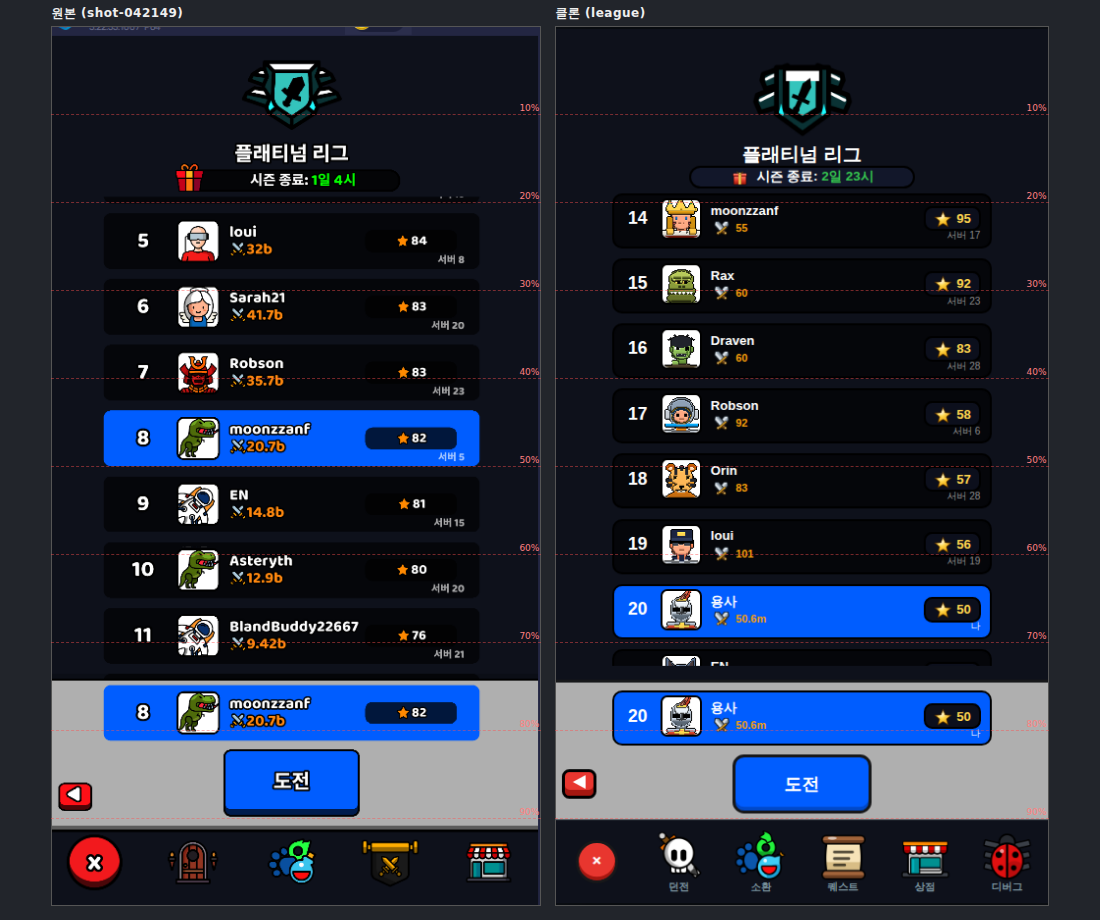
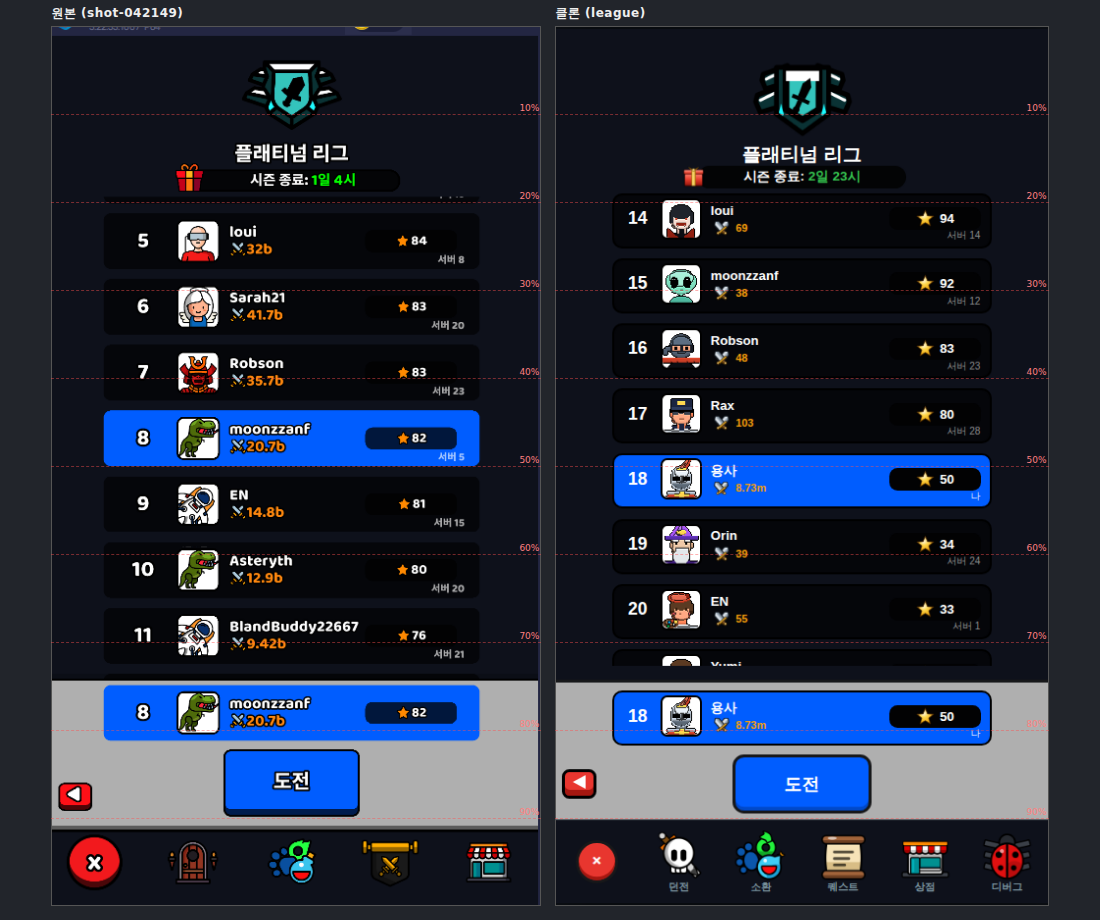
aaa-skin ⑥ 리그 — 시즌 바를 원본 구조로(선물 아이콘 바 밖 좌측 돌출·바 42.17%W 근흑 #030405 무테; 종전 45.98%W 는 아이콘 포함 오측정=함정①), ⭐점수 pill 고정 규격 18.7%W×2.57%H·근흑·흰 숫자(042149 실측). [도전] 높이 지적은 기각(원본 6.9 vs 클론 6.5%H). probe-league-verdict 16요소 통과

diff --git a/web/css/style.css b/web/css/style.css
@@ -1782,10 +1782,18 @@ body {
     height: calc(var(--app-h) * .0246); margin: calc(var(--app-h) * .0088) 0 0; }
 .league-season-bar {
     display: flex; align-items: center; justify-content: center; gap: .4rem;
-    background: #12172a; border: var(--ol2) solid #000; border-radius: 1rem; padding: 0 .9rem;
-    /* 원본 바는 229px(45.98%W) x 23px(2.57%H) — 클론은 내용 폭이라 36.02%W 로 좁고 34px 로 높았다 */
-    width: calc(var(--app-w) * .4598); height: calc(var(--app-h) * .0257); box-sizing: border-box;
+    /* 🚨 '229px(45.98%W)' 는 **선물 아이콘까지 한 덩어리로 잰** 함정 ①이었다(채점 1라운드 A·B 공통
+       지적 → 픽셀 교차검증). 042149 실측: 선물 x126~152(바 밖 좌측, 폭 27px=5.42%W · 바 위로 ~10px
+       돌출·바닥 정렬) + 바 x≈144~354(폭 210px=42.17%W · 화면 중앙) · 높이 23px(2.57%H).
+       바탕도 남색+검정 테두리가 아니라 **테두리 없는 근흑 #030405 솔리드**다(행 전 구간 #020304~#040507). */
+    position: relative;
+    background: #030405; border: none; border-radius: 1rem; padding: 0 .9rem;
+    width: calc(var(--app-w) * .4217); height: calc(var(--app-h) * .0257); box-sizing: border-box;
     font-size: .8rem; font-weight: 700; color: #fff; margin: calc(var(--app-h) * -.0103) auto 0; cursor: pointer;
+}
+.league-season-bar > .ico {
+    position: absolute; left: calc(var(--app-w) * -.0362); bottom: 0;
+    width: calc(var(--app-w) * .0542); height: calc(var(--app-h) * .0392);
 }
 .league-season-bar b { color: var(--pp-green); }
 /* 목록 높이 실측(원본 shot-042149): 첫 행 21.21%H → 마지막 행 하단 72.54%H. 이전 .46 은 하단이
@@ -1813,8 +1821,13 @@ body {
 .league-row.me .league-name { color: #fff; }
 .league-name small { color: #f59e0b; font-weight: 900; }
 .league-score {
-    background: #0c0f1c; border: var(--ol2) solid #000; border-radius: .5rem; padding: .2rem .5rem;
-    color: #ffd54f; font-weight: 900; white-space: nowrap; font-size: .78rem;
+    /* 원본(042149 1행 y207~229 실측): 폭 93px(18.7%W)·높이 23px(2.57%H) **고정 pill**, 바탕 근흑
+       #020203(남색 아님)·테두리 없음·숫자 **흰색**(x367~381 #ffffff). 클론은 내용 폭(14.2%W)+금색
+       숫자라 pill 이 눈에 띄게 작고 색이 달랐다(채점 1라운드 A 지적, 픽셀 교차검증 확인). */
+    display: flex; align-items: center; justify-content: center; gap: .25rem;
+    width: calc(var(--app-w) * .187); height: calc(var(--app-h) * .0257); box-sizing: border-box;
+    background: #020203; border: none; border-radius: .5rem; padding: 0 .3rem;
+    color: #fff; font-weight: 900; white-space: nowrap; font-size: .78rem;
 }
 .league-server { position: absolute; right: .55rem; bottom: .2rem; font-size: .6rem; color: #8a8a8a; }
 .league-row.me .league-server { color: #dce6ff; }
